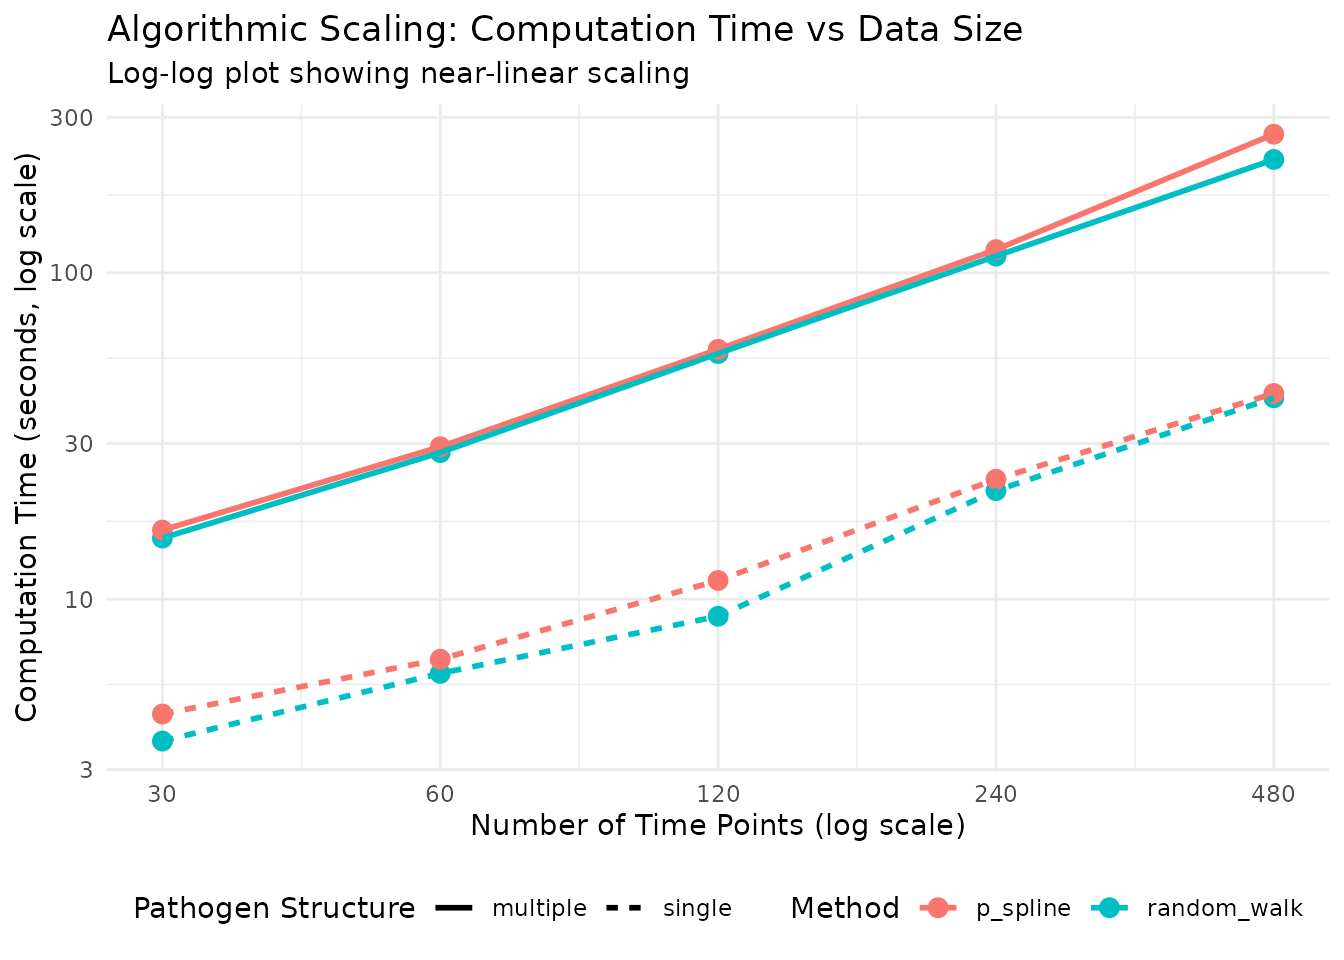
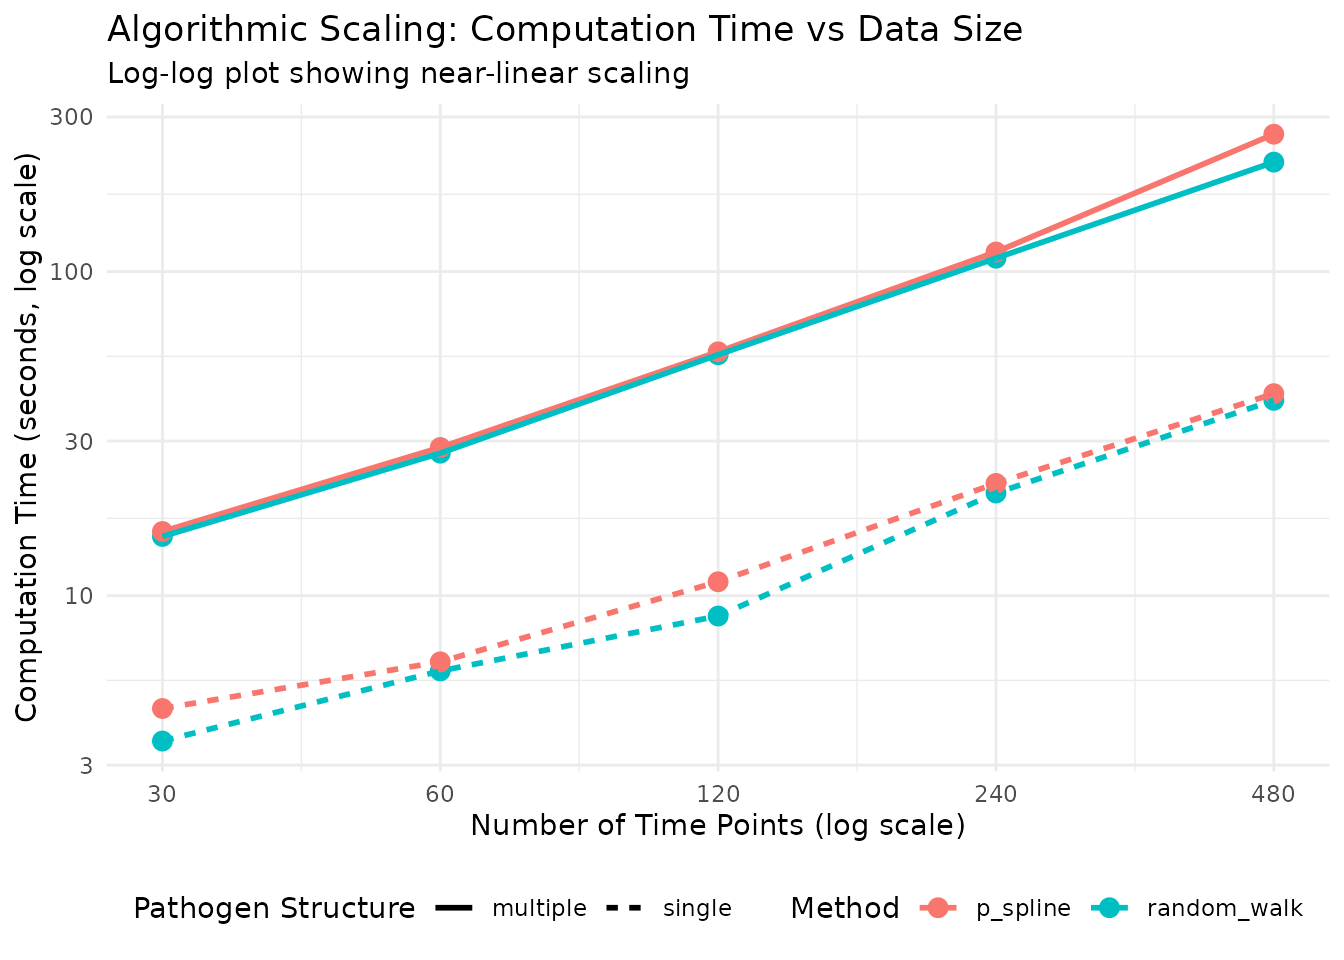
Deploying to gh-pages from @ acefa-hubs/EpiStrainDynamics@a36e00ea9734426615ce323543d66de51d4c75f5 🚀

diff --git a/articles/algorithmic-scaling.html b/articles/algorithmic-scaling.html
@@ -372,26 +372,26 @@ O(n^exponent)</caption>
 <tr class="odd">
 <td align="left">p_spline</td>
 <td align="left">multiple</td>
-<td align="right">1.007</td>
-<td align="right">0.997</td>
+<td align="right">1.015</td>
+<td align="right">0.996</td>
 </tr>
 <tr class="even">
 <td align="left">p_spline</td>
 <td align="left">single</td>
-<td align="right">0.836</td>
-<td align="right">0.990</td>
+<td align="right">0.828</td>
+<td align="right">0.986</td>
 </tr>
 <tr class="odd">
 <td align="left">random_walk</td>
 <td align="left">multiple</td>
-<td align="right">0.971</td>
+<td align="right">0.967</td>
 <td align="right">0.999</td>
 </tr>
 <tr class="even">
 <td align="left">random_walk</td>
 <td align="left">single</td>
-<td align="right">0.885</td>
-<td align="right">0.980</td>
+<td align="right">0.881</td>
+<td align="right">0.981</td>
 </tr>
 </tbody>
 </table>

diff --git a/articles/algorithmic-scaling.md b/articles/algorithmic-scaling.md
@@ -290,10 +290,10 @@ knitr::kable(scaling_results, digits = 3,
 
 | method      | pathogen_structure | scaling_exponent | r_squared |
 |:------------|:-------------------|-----------------:|----------:|
-| p_spline    | multiple           |            1.007 |     0.997 |
-| p_spline    | single             |            0.836 |     0.990 |
-| random_walk | multiple           |            0.971 |     0.999 |
-| random_walk | single             |            0.885 |     0.980 |
+| p_spline    | multiple           |            1.015 |     0.996 |
+| p_spline    | single             |            0.828 |     0.986 |
+| random_walk | multiple           |            0.967 |     0.999 |
+| random_walk | single             |            0.881 |     0.981 |
 
 Scaling exponents: time complexity approximately O(n^exponent)
 
